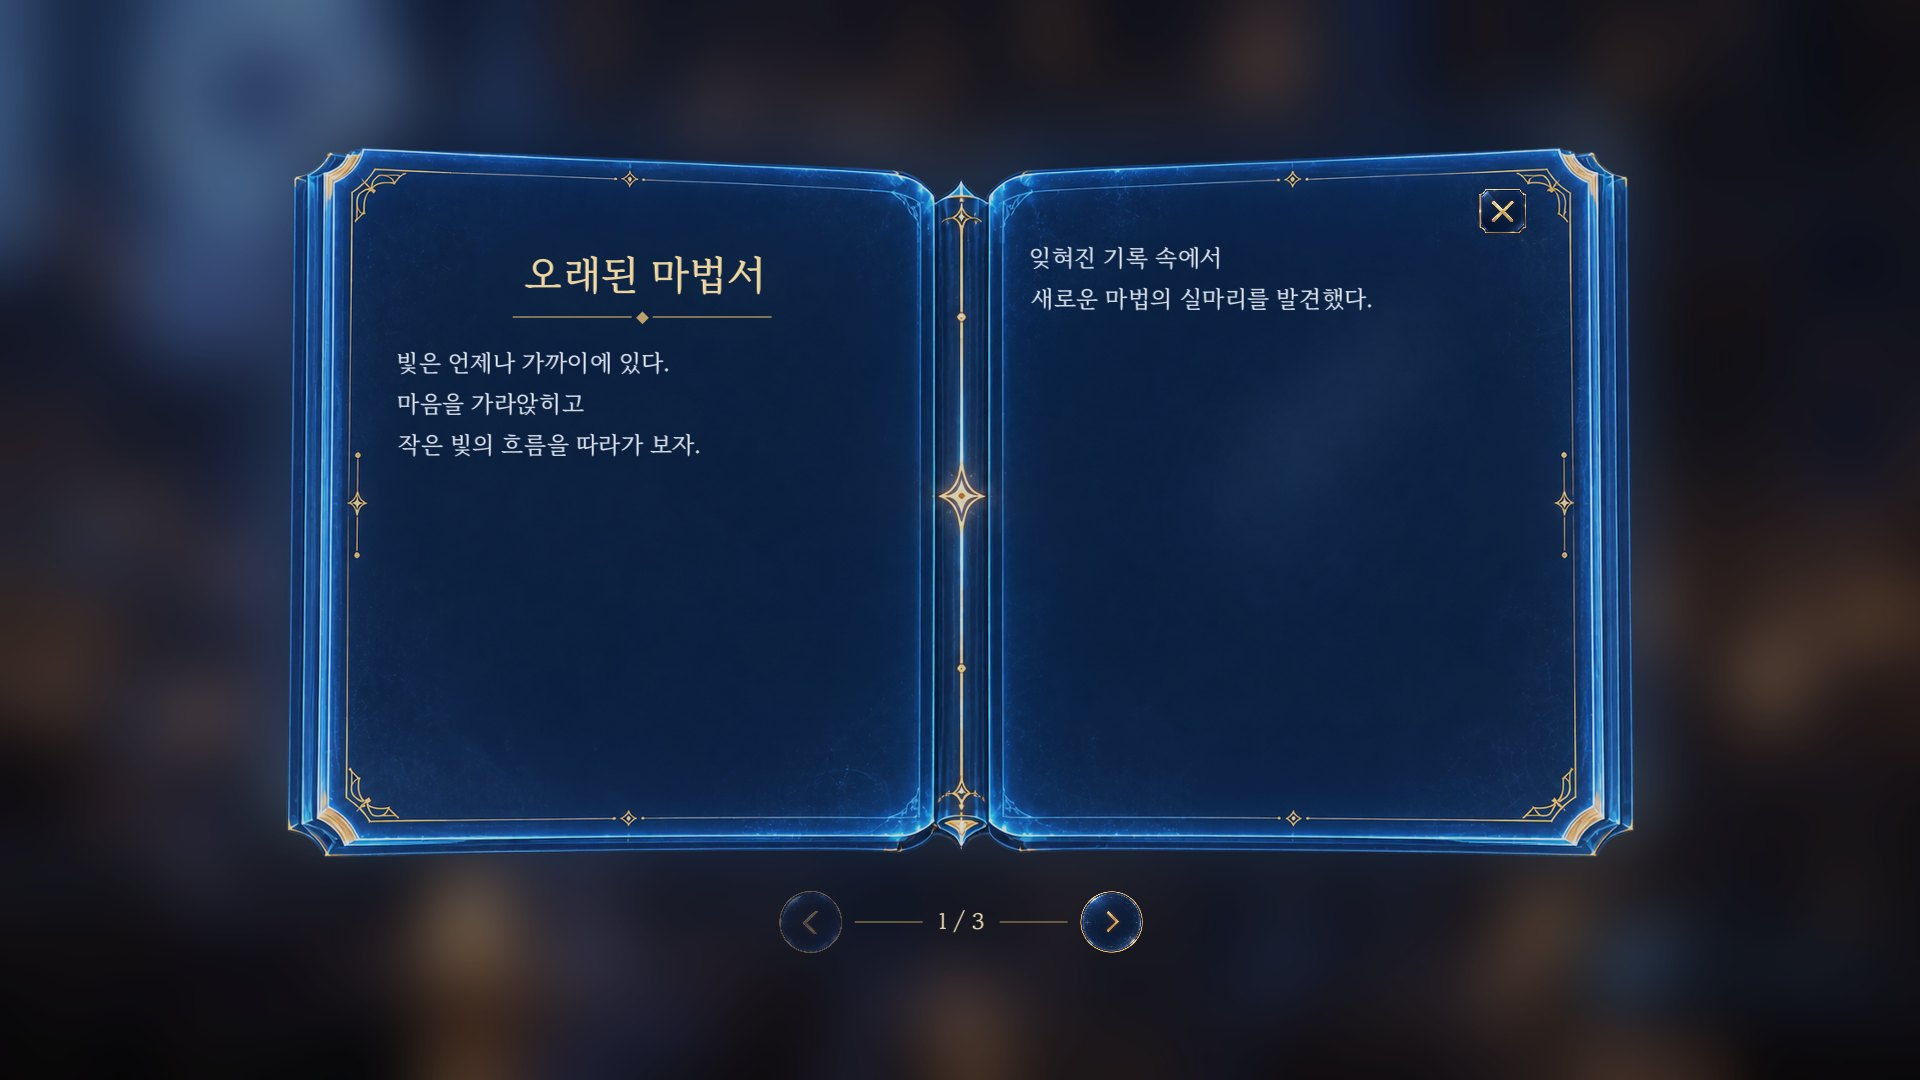
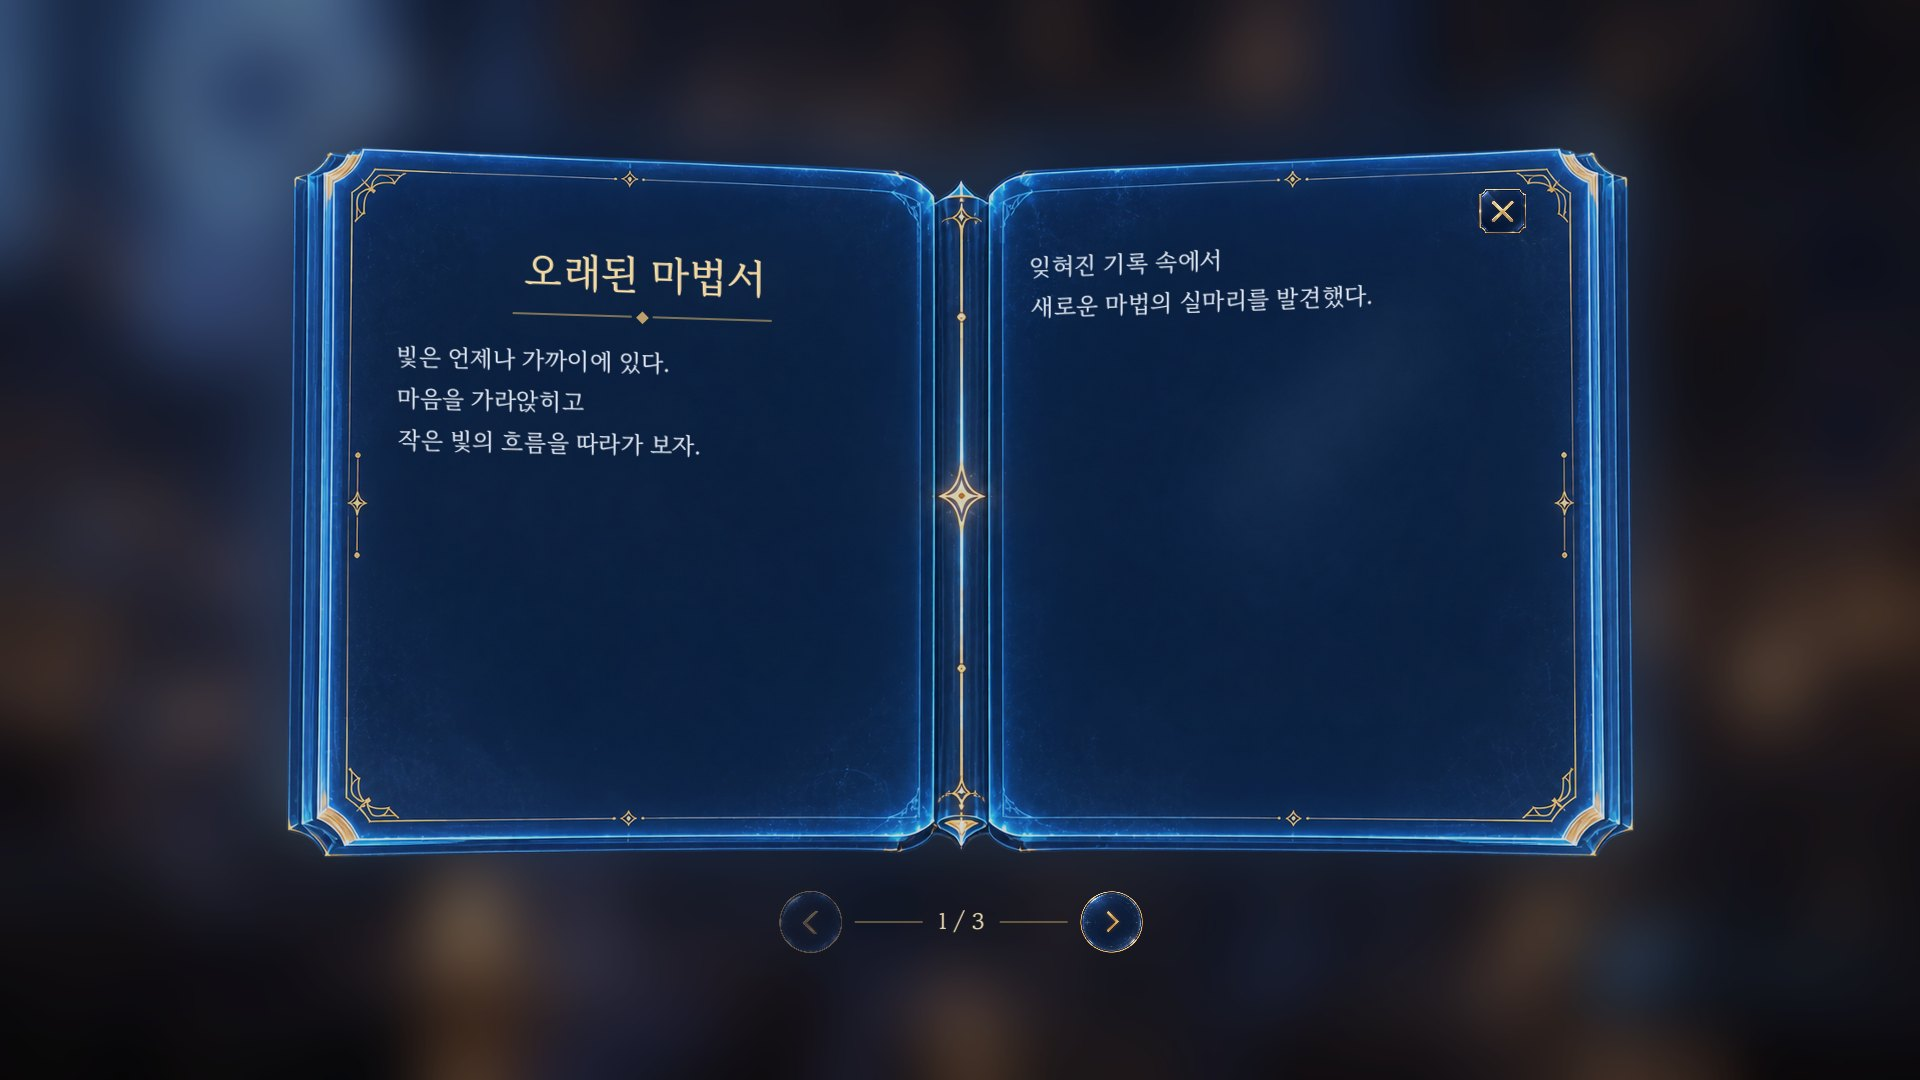
책 읽기 UI: 덜 펴진 종이 기울기에 맞춰 글 줄·제목·구분선 기울이기
Claude-Session: https://claude.ai/code/session_01Gk27t91Hr8jB4ucTQof7RP

Changed region(s): [[0.1875, 0.2139, 0.4062, 0.4278], [0.5312, 0.2139, 0.7188, 0.3056], [0.3438, 0.3972, 0.375, 0.4278]]

diff --git a/magic-codex-fabric/src/main/java/school/magiccodex/client/BookScreen.java b/magic-codex-fabric/src/main/java/school/magiccodex/client/BookScreen.java
@@ -9,6 +9,7 @@ import net.minecraft.sound.SoundEvents;
 import net.minecraft.text.Text;
 import net.minecraft.util.Identifier;
 import net.minecraft.util.math.RotationAxis;
+import org.joml.Matrix4f;
 import org.lwjgl.glfw.GLFW;
 import school.magiccodex.protocol.BookProtocol;
 
@@ -17,6 +18,9 @@ import school.magiccodex.protocol.BookProtocol;
  * and the page number are drawn with the MagicCodex fonts (CodexTypography: rasterised at the real pixel size, so they stay
  * sharp at every GUI scale / resolution). The whole canvas is scaled as one piece ({@link BookLayout#fit}), so the
  * proportions never change. The panel is drawn translucent (hologram, {@link BookLayout#PANEL_ALPHA}).
+ *
+ * The pages are drawn slightly closed (trapezoids), so every text line is sheared to the paper's slope at its height
+ * ({@link BookLayout#slope}); the buttons and the page number under the book stay level.
  *
  * One page = one open spread (left + right side). Closing in any way (X, ESC, another screen) sends the server's token
  * once; the server decides whether anything runs.
@@ -118,10 +122,23 @@ final class BookScreen extends Screen {
         UiResources.images().drawTexture(c, Identifier.of("magiccodex", ROOT + name + ".png"), x0, y0, 0, 0, w0, h0, tw, th, tw, th, argb(alpha, 0xFFFFFF));
     }
 
-    private static void lines(DrawContext c, BookLayout.Block block, float x, float top, int rgb, float alpha, Identifier face) {
+    /** Shear the matrix so things drawn level around height y follow the tilted paper of that page. */
+    private static void tilt(DrawContext c, boolean right, float y) {
+        float px = BookLayout.pivot(right), k = BookLayout.slope(right, y);
+        var m = c.getMatrices();
+        m.translate(px, y, 0);
+        m.peek().getPositionMatrix().mul(new Matrix4f().m01(k));
+        m.translate(-px, -y, 0);
+    }
+
+    private static void lines(DrawContext c, BookLayout.Block block, boolean right, float x, float top, int rgb, float alpha, Identifier face) {
         float y = top + block.size() / 2;
         for (String line : block.lines()) {
-            if (!line.isBlank()) UiResources.text().draw(c, line, x, y, block.size(), argb(alpha, rgb), face, false);
+            if (!line.isBlank()) {
+                c.getMatrices().push();
+                try { tilt(c, right, y); UiResources.text().draw(c, line, x, y, block.size(), argb(alpha, rgb), face, false); }
+                finally { c.getMatrices().pop(); }
+            }
             y += block.lineHeight();
         }
     }
@@ -141,13 +158,17 @@ final class BookScreen extends Screen {
             if (p.title() != null && !p.title().lines().isEmpty()) {
                 float cx = BookLayout.LEFT_X + BookLayout.BOX_W / 2, y = p.titleTop() + p.title().size() / 2;
                 for (String line : p.title().lines()) {
-                    type.draw(c, line, cx, y, p.title().size(), argb(1, TITLE_COLOR), TITLE, true);
+                    m.push();
+                    try { tilt(c, false, y); type.draw(c, line, cx, y, p.title().size(), argb(1, TITLE_COLOR), TITLE, true); }
+                    finally { m.pop(); }
                     y += p.title().lineHeight();
                 }
-                divider(c, cx, p.dividerY());
+                m.push();
+                try { tilt(c, false, p.dividerY()); divider(c, cx, p.dividerY()); }
+                finally { m.pop(); }
             }
-            lines(c, p.left(), BookLayout.LEFT_X, p.leftTop(), BODY_COLOR, .94f, BODY);
-            lines(c, p.right(), BookLayout.RIGHT_X, BookLayout.BOX_TOP, BODY_COLOR, .94f, BODY);
+            lines(c, p.left(), false, BookLayout.LEFT_X, p.leftTop(), BODY_COLOR, .94f, BODY);
+            lines(c, p.right(), true, BookLayout.RIGHT_X, BookLayout.BOX_TOP, BODY_COLOR, .94f, BODY);
 
             boolean overClose = in(mx, my, BookLayout.CLOSE_X, BookLayout.CLOSE_Y, BookLayout.CLOSE_S, BookLayout.CLOSE_S);
             image(c, "close", BookLayout.CLOSE_X, BookLayout.CLOSE_Y, BookLayout.CLOSE_S, BookLayout.CLOSE_S, 256, 256, overClose ? 1 : BookLayout.BUTTON_ALPHA);

diff --git a/magic-codex-fabric/src/main/java/school/magiccodex/client/BookLayout.java b/magic-codex-fabric/src/main/java/school/magiccodex/client/BookLayout.java
@@ -30,6 +30,25 @@ final class BookLayout {
     // page row under the book, centred on the spine (as in the reference)
     static final float NAV_Y = 942, NAV_S = 74, PREV_CX = 663, NEXT_CX = 1011, LABEL_CX = 837, LABEL_SIZE = 26;
 
+    /**
+     * The pages are not fully open: each page is a trapezoid, higher at the outer edge and lower at the spine at the top,
+     * almost flat at the bottom (measured on book_panel.png: top edge slope +0.042 left / -0.047 right, bottom edge
+     * -0.009 left / +0.009 right, edges at y ~60 / ~860). Text lines are sheared by the slope at their height, around the
+     * centre of their page, so they follow the paper instead of sitting level on a tilted page.
+     */
+    static final float LEFT_TOP_SLOPE = 0.042f, LEFT_BOTTOM_SLOPE = -0.009f, RIGHT_TOP_SLOPE = -0.047f, RIGHT_BOTTOM_SLOPE = 0.009f;
+    static final float SLOPE_TOP_Y = 60, SLOPE_BOTTOM_Y = 860;
+
+    /** dy/dx of the paper at height y on the left or right page. */
+    static float slope(boolean right, float y) {
+        float t = Math.clamp((y - SLOPE_TOP_Y) / (SLOPE_BOTTOM_Y - SLOPE_TOP_Y), 0f, 1f);
+        return right ? RIGHT_TOP_SLOPE + (RIGHT_BOTTOM_SLOPE - RIGHT_TOP_SLOPE) * t : LEFT_TOP_SLOPE + (LEFT_BOTTOM_SLOPE - LEFT_TOP_SLOPE) * t;
+    }
+    /** Shear pivot of a page (centre of its text box). */
+    static float pivot(boolean right) { return (right ? RIGHT_X : LEFT_X) + BOX_W / 2; }
+    /** Where a point drawn level at (x, y) lands on the tilted page. */
+    static float tiltedY(boolean right, float x, float y) { return y + slope(right, y) * (x - pivot(right)); }
+
     /** Panel opacity (hologram). README: about 0.75~0.85. Buttons are a little more solid so they stay readable. */
     static final float PANEL_ALPHA = 0.82f, BUTTON_ALPHA = 0.92f, DISABLED_ALPHA = 0.32f;
 

diff --git a/magic-codex-fabric/src/test/java/school/magiccodex/client/BookUiTest.java b/magic-codex-fabric/src/test/java/school/magiccodex/client/BookUiTest.java
@@ -58,6 +58,16 @@ class BookUiTest {
         // boxes stay clear of the spine fold (x 790..875) and the gold lines (x 127 / 1535)
         assertTrue(BookLayout.LEFT_X > 127 + 40 && BookLayout.LEFT_X + BookLayout.BOX_W < 790 - 30);
         assertTrue(BookLayout.RIGHT_X > 875 + 30 && BookLayout.RIGHT_X + BookLayout.BOX_W < 1535 - 40);
+        // tilted text (pages not fully open) still stays between the gold top / bottom lines (~y 72..80 / ~822..825)
+        for (boolean right : new boolean[]{false, true}) {
+            float x0 = right ? BookLayout.RIGHT_X : BookLayout.LEFT_X, x1 = x0 + BookLayout.BOX_W;
+            for (float x : new float[]{x0, x1}) {
+                assertTrue(BookLayout.tiltedY(right, x, BookLayout.BOX_TOP) > 130, "top corner too high");
+                assertTrue(BookLayout.tiltedY(right, x, BookLayout.BOX_BOTTOM) < 800, "bottom corner too low");
+            }
+            // the outer side of each page is higher at the top (paper slopes down toward the spine)
+            assertTrue(BookLayout.tiltedY(right, right ? x1 : x0, BookLayout.BOX_TOP) < BookLayout.tiltedY(right, right ? x0 : x1, BookLayout.BOX_TOP));
+        }
     }
 
     @Test void titleFitsOneOrTwoLines() throws Exception {

diff --git a/docs/handoff/CLAUDE_BOOK_UI_20261023.md b/docs/handoff/CLAUDE_BOOK_UI_20261023.md
@@ -92,6 +92,7 @@ books:
 - 캔버스 1672x1000 (책 PNG 1672x941 + 아래 버튼 줄) 을 통째로 화면의 80% 안에 맞춰 축소 → GUI 배율·해상도·화면비가 달라도 비율 유지, 책이 화면을 꽉 채우지 않음.
 - 글씨: CodexTypography (실제 픽셀 크기로 래스터) — 제목 `title`(마루부리 세미볼드), 본문 `heading`(같은 서체), 페이지 번호 `title`. 이미지에 굽지 않음.
 - 글 상자: 왼쪽 x 185~752, 오른쪽 x 918~1485, y 160~780 (PNG 실측: 금색 테두리 x 127/1535, 접히는 부분 x 790~875, 모서리 장식 피함). 왼쪽 정렬·위 정렬, 줄 간격 1.75.
+- **기울어진 종이 맞춤 (2026-10-23 오너 피드백 "책이 덜 펴져서 종이가 기울었는데 글씨만 반듯함")**: 쪽마다 사다리꼴(바깥쪽이 높고 접히는 쪽이 낮음)이라 PNG 실측 기울기 — 윗변 왼쪽 +0.042 / 오른쪽 -0.047, 아랫변 왼쪽 -0.009 / 오른쪽 +0.009 — 를 줄 높이에 따라 섞어서, 글 줄·제목·구분선을 각 쪽 글 상자 가운데 기준으로 기울여(shear) 그림. 위쪽 줄은 많이, 아래쪽 줄은 거의 안 기울어짐. 아래 버튼 줄·닫기 버튼은 그대로. 값은 `BookLayout.LEFT_/RIGHT_TOP/BOTTOM_SLOPE`.
 - 넘칠 때: 본문 27px → 21px까지 1px씩 줄여 맞추고, 그래도 넘치면 마지막 줄 끝을 "…" 로 (이 경우 페이지를 나누라는 뜻). 제목은 46→30px 한 줄, 그래도 길면 두 줄(34→24px).
 - 첫 페이지만 왼쪽 위에 제목 + 얇은 금색 선과 작은 마름모(시안의 구분선). 버튼 줄 사이 얇은 선도 시안 그대로. 그 밖의 장식·글로우 추가 없음.
 - 반투명: `BookLayout.PANEL_ALPHA = 0.82` (README 권장 0.75~0.85), 버튼 0.92(올리면 1.0), 넘길 수 없는 쪽 버튼 0.32. 배경은 아주 옅게 어둡게(`0x4D040A14`). 글씨 색: 제목 #EBD3A0, 본문 #DCE3EE 94%, 번호 #E9D9B0 — 눈부시지 않게 흰색 100% 안 씀, 가산 블렌드 안 씀.
@@ -104,6 +105,7 @@ books:
 - `javac` 로 프로토콜 패키지 전체 + BookLayout·CodexLayout·CodexTextLayout·CodexTextRasterizer + `BookUiTest` 를 컴파일하고, 최소 JUnit 대용으로 실행 → **5/5 통과**
   - 패킷 왕복·잘못된 패킷 거절(토큰 0, 빈 페이지, 41페이지, 1001자, 뒤에 붙은 바이트, 크기 초과), 최대 크기 책(40페이지×양쪽 1000자 한글)도 한 패킷에 들어감
   - 실제 마루부리 폰트로: 보통 문단은 27px 유지, 띄어쓰기 없는 긴 문장·빈 줄 포함 문단·1000자 꽉 찬 쪽 모두 상자 너비/높이 안, 넘치면 21px + "…"
+  - 기울인 뒤에도 글 상자 네 모서리가 금색 위·아래 선 안 (위 y>130, 아래 y<800), 바깥쪽이 더 높게 기울어짐
   - 제목 1줄/2줄 맞춤, 427x240 ~ 3840x1600 창 크기에서 캔버스 비율·가운데 정렬 유지
 - **Paper 쪽(BookBridge·BookReadStore)은 컴파일 못 함** — 기존 FishShopBridge·FishingStore·Doors 와 같은 API 만 써서 작성. GPT 빌드 때 컴파일 확인 필요.
 
@@ -123,5 +125,5 @@ books:
 3. 명령 실행이 실패해도(오타 등) 기록은 남음 → 콘솔 `책 <id> 명령 실행 실패: …` 확인 후 명령 고치고 `/유저관리 <닉네임> 책기록 초기화 <책> 확인`.
 4. `마법조건 주기` 는 대상이 접속 중이고 발견 데이터 로딩이 끝나야 처리됨 (기존 동작). 접속 직후 0.x초 안에 책을 닫는 경우는 사실상 없지만, 실패하면 콘솔에 MagicDiscovery 쪽 문구가 남음 → 3번처럼 복구.
 5. 책ID 바꾸기 = 새 책 (기록이 새로 시작). 지운 책ID 의 기록은 DB 에 남아 있어도 무해.
-6. 컴파일 위험 지점: `BookBridge.finish` 의 enum switch 화살표 블록 안 `return`(람다 안), `CmdKit.confirm(CmdKit.word(...), this::reset)` 제네릭, `BookScreen` 의 `Math.clamp(int,int,int)`·`Math.clamp(float,int,int)` (Java 21). 문제 있으면 그 줄만 풀어서 써도 됨.
+6. 컴파일 위험 지점: `BookScreen.tilt` 의 `m.peek().getPositionMatrix().mul(new Matrix4f().m01(k))` (JOML, y += k·x 기울이기), `BookBridge.finish` 의 enum switch 화살표 블록 안 `return`(람다 안), `CmdKit.confirm(CmdKit.word(...), this::reset)` 제네릭, `BookScreen` 의 `Math.clamp(int,int,int)`·`Math.clamp(float,int,int)` (Java 21). 문제 있으면 그 줄만 풀어서 써도 됨.
 7. 좌표·글자 크기·투명도 상수는 전부 `BookLayout.java` 한 곳.
